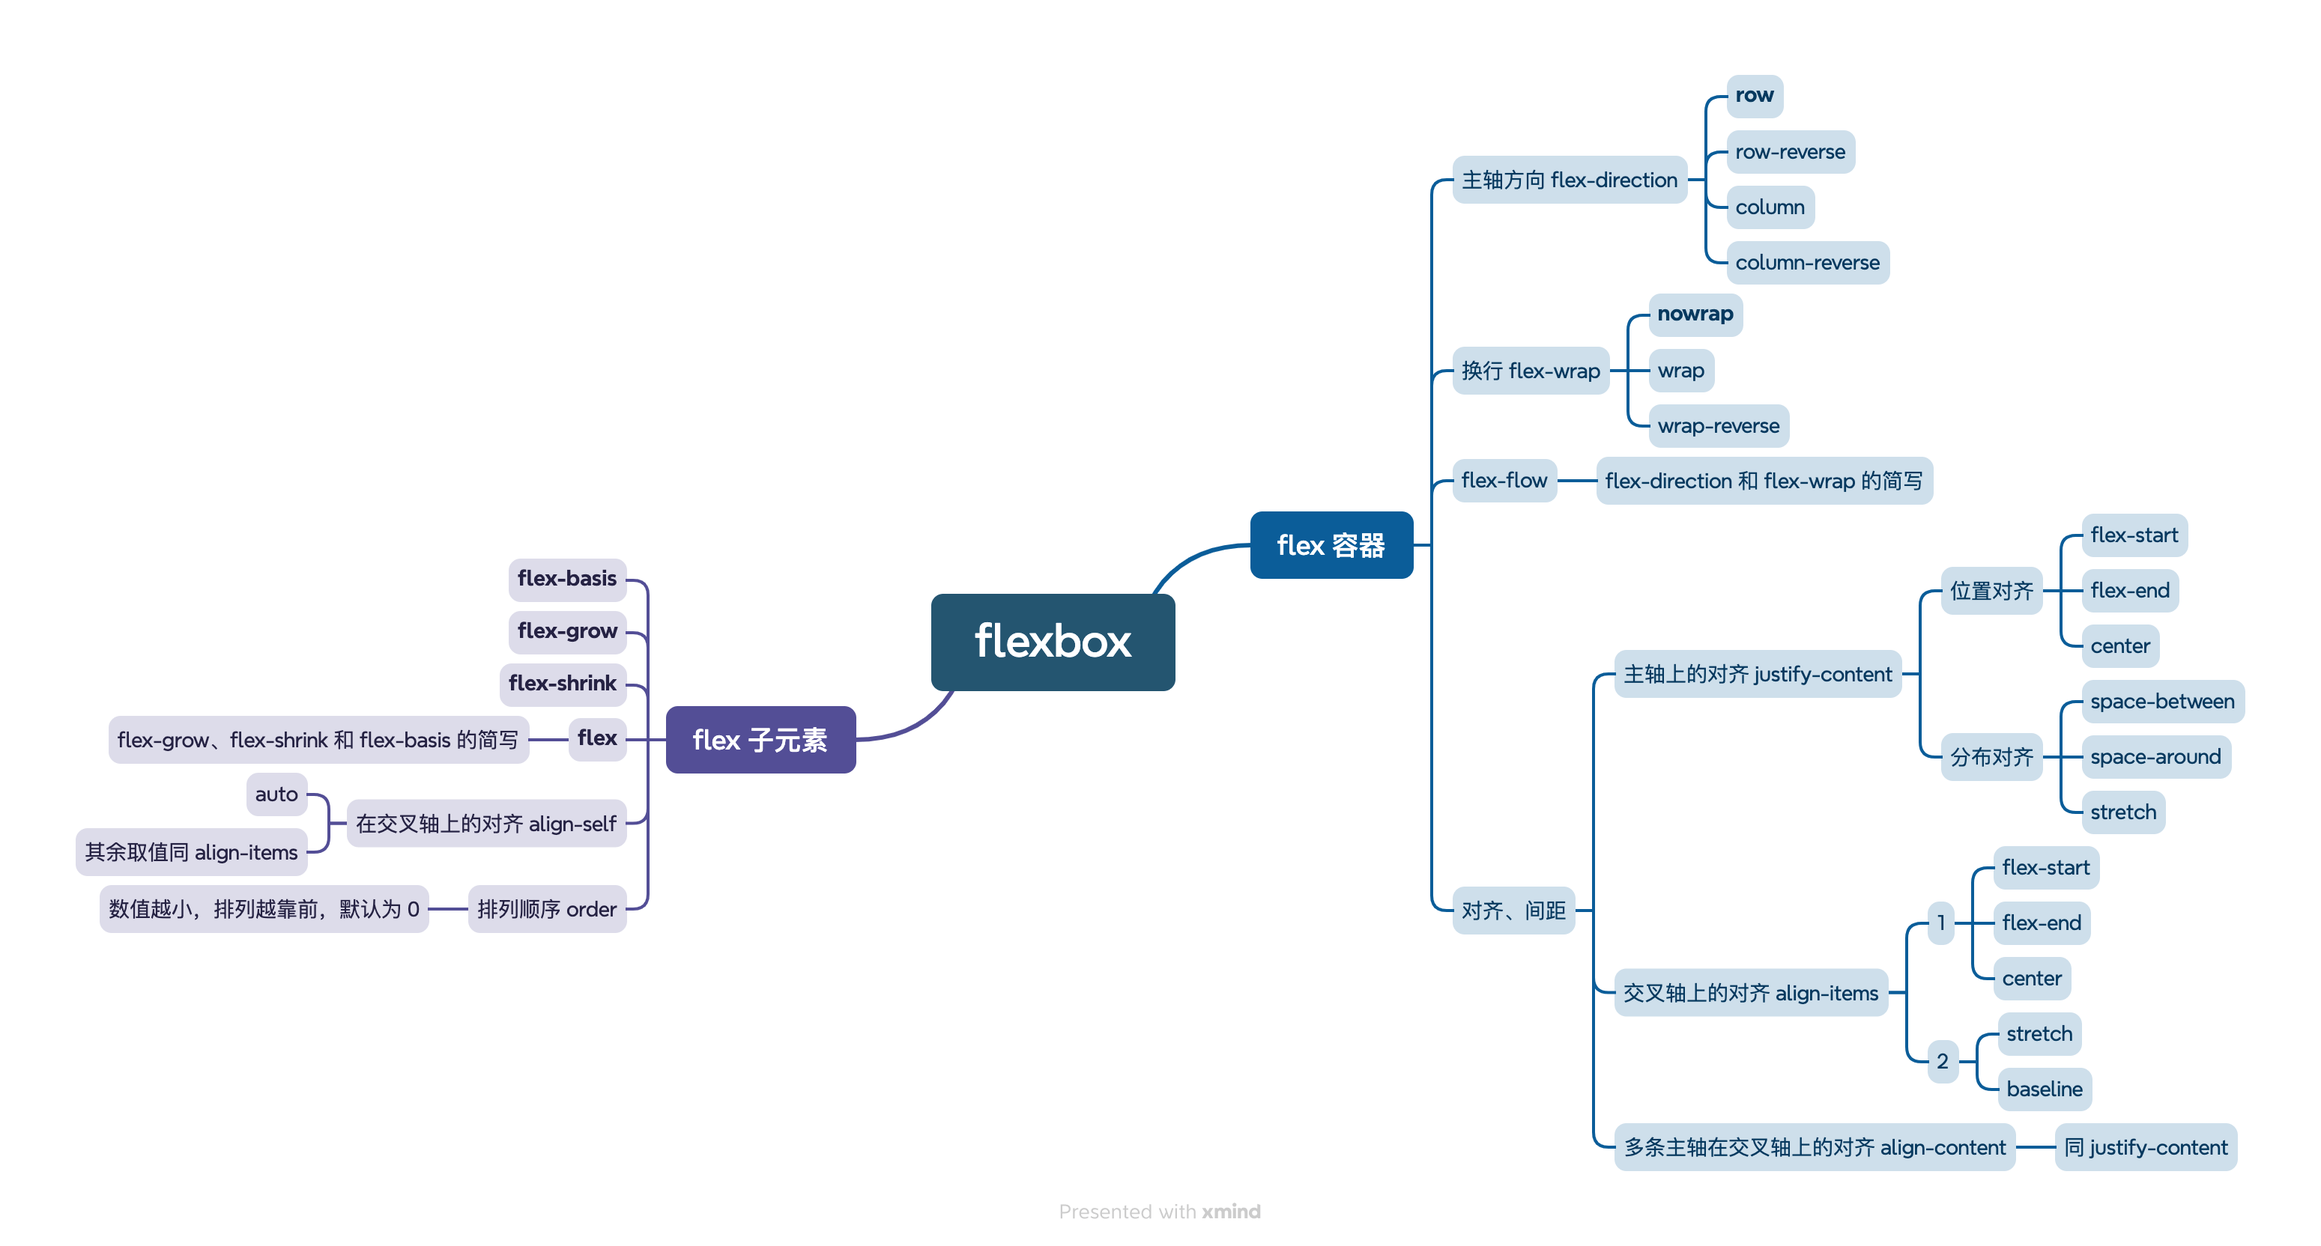
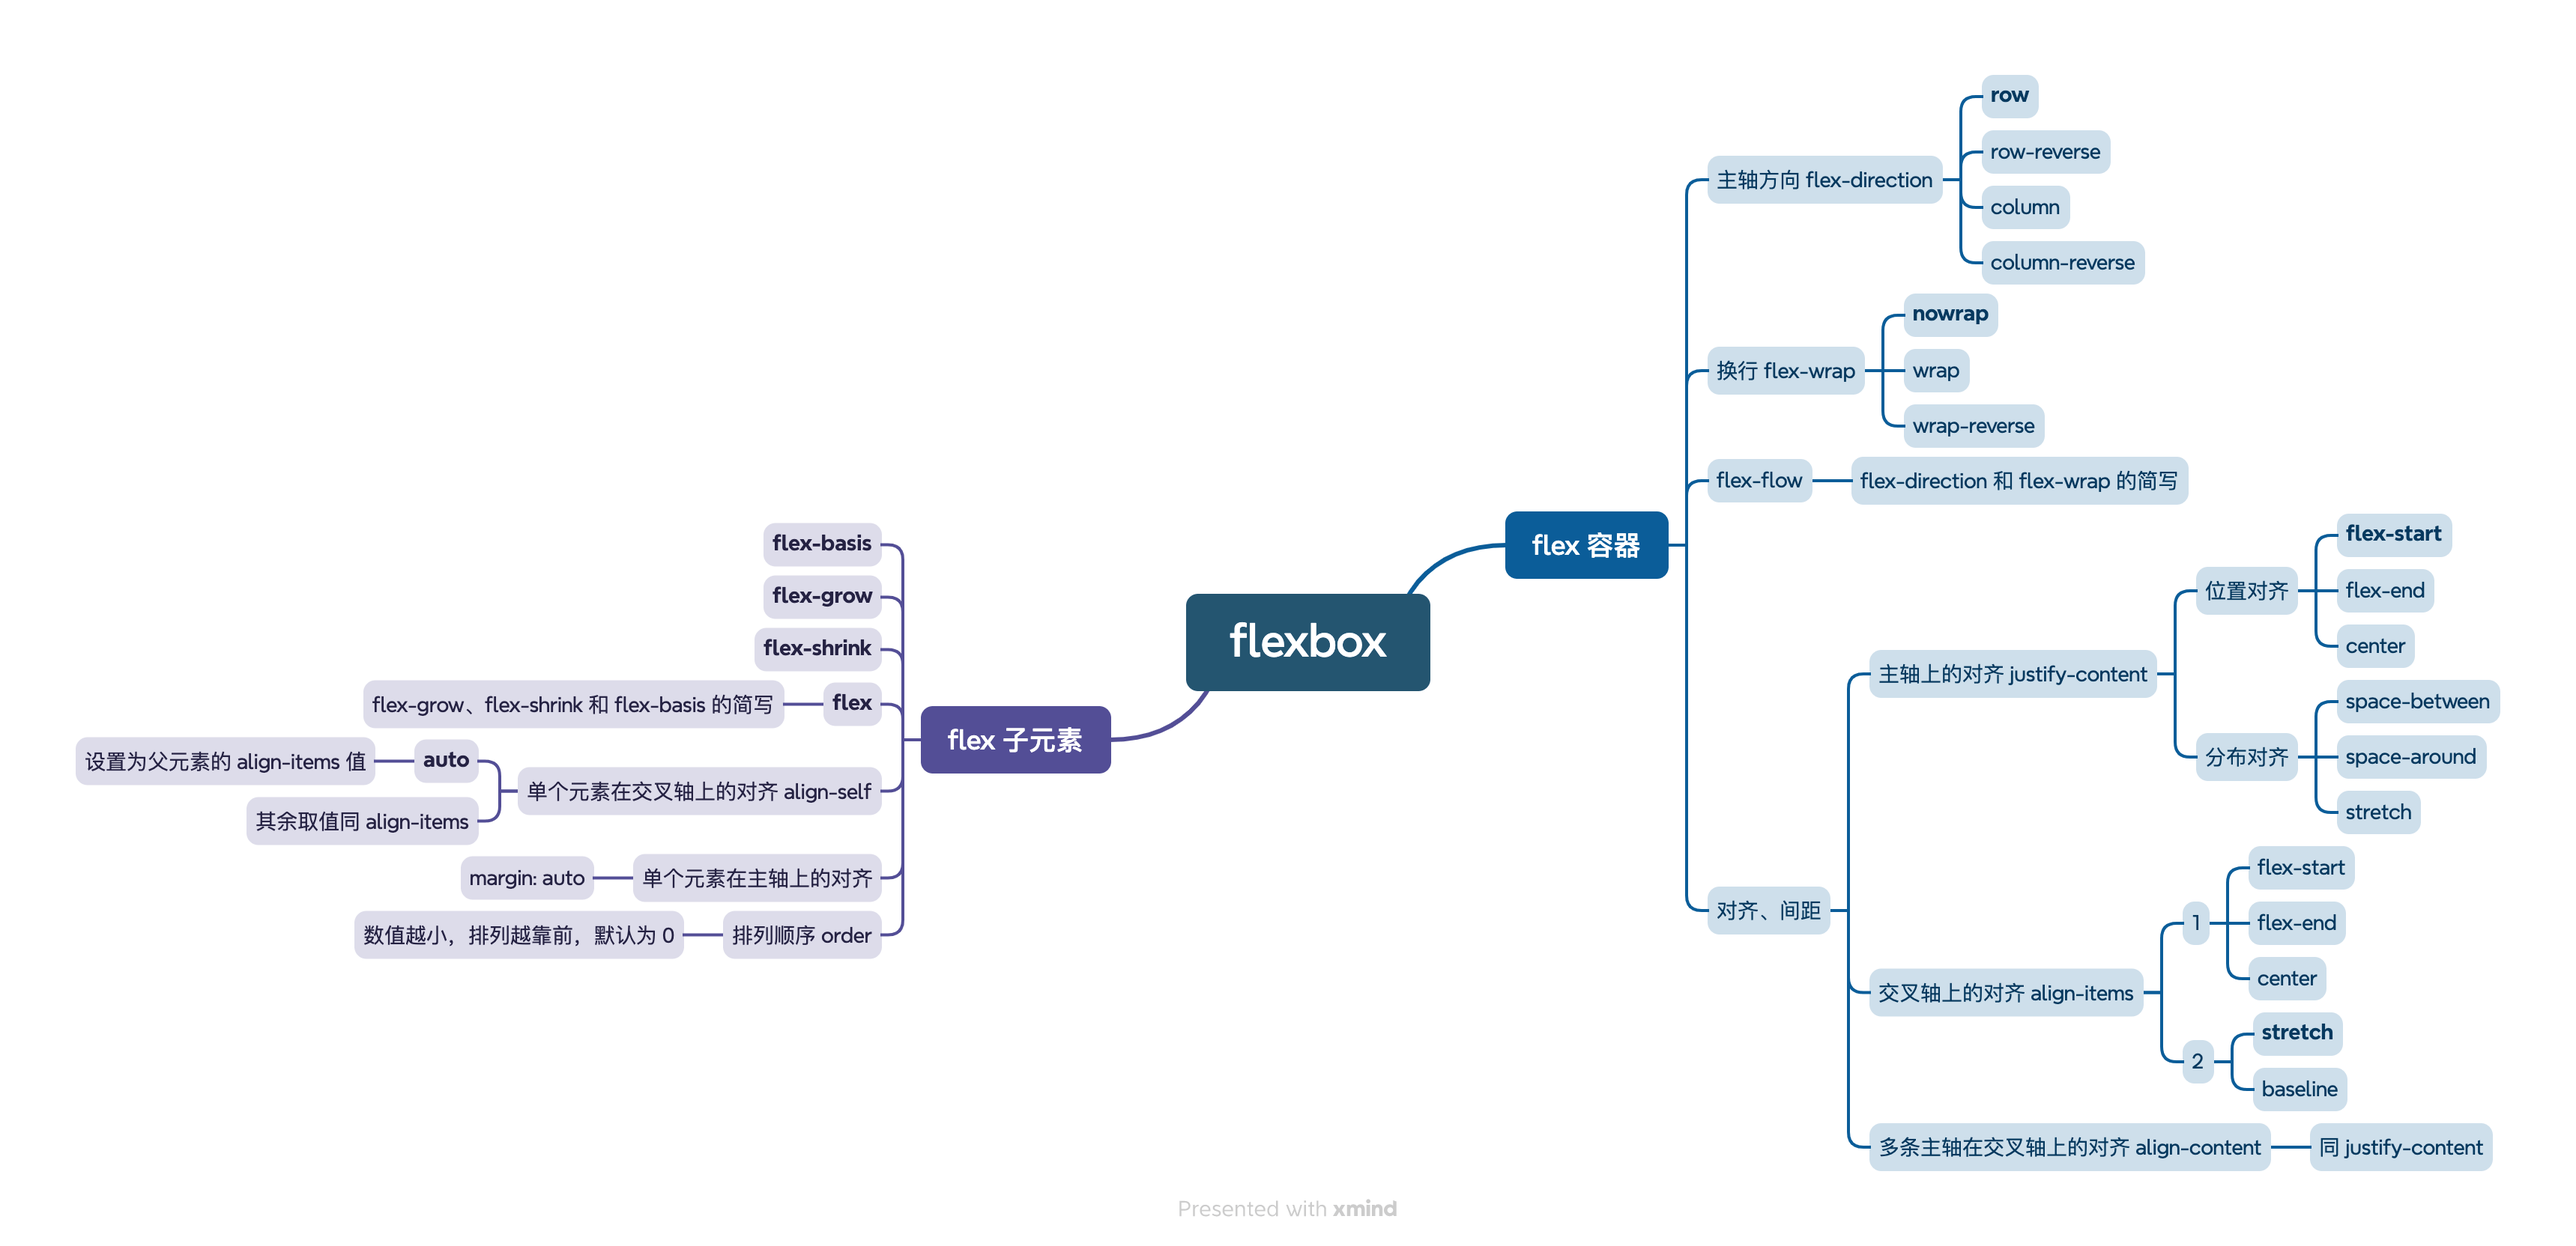
11

diff --git a/css/深入理解CSS/第5章 Flexbox.md b/css/深入理解CSS/第5章 Flexbox.md
@@ -54,7 +54,7 @@
 
 是否允许换行，如果允许换行，指定行的堆叠方向
 
-取值：`nowrap`、`wrap`、`wrap-reverse`
+取值：`nowrap`、`wrap`、`wrap-reverse`（换行、轴线从下到上）
 
 ![alt text](https://github.com/yaoshaohua/markdowndocs/blob/main/assets/css/5-4-1.png?raw=true)
 
@@ -110,6 +110,8 @@ flex 容器里除了元素所占的空间以外的富余空间
 
 值越大，收缩得越多
 
+如果 `flex-wrap` 设置了换行，则会忽略该属性
+
 ### `flex`
 
 `<flex-grow> <flex-shrink> <flex-basis>` 三个属性的简写
@@ -138,6 +140,10 @@ flex 容器里除了元素所占的空间以外的富余空间
 
 ### 主轴上的对齐 `justify-content`
 
+**当元素未填满容器时**，`justify-content` 控制子元素沿主轴方向的间距。也就是说，如果任意子元素的 `flex-grow` 不为 `0`，或者任意子元素**在主轴方向的外边距为`auto`**，`justify-content` 就失效了。
+
+取值：
+
 - 位置对齐：`flex-start`、`flex-end`、`center`
 
 - 分布对齐：`space-between`、`space-around`、`stretch`
@@ -146,7 +152,7 @@ flex 容器里除了元素所占的空间以外的富余空间
 
 ### 交叉轴上的对齐 `align-items`
 
-`flex-start`、`flex-end`、`center`、`stretch`、`baseline`
+`flex-start`、`flex-end`、`center`、**`stretch`**、`baseline`
 
 ### 多条主轴的 flex 子元素在交叉轴的对齐 `align-content`
 
@@ -156,7 +162,9 @@ flex 容器里除了元素所占的空间以外的富余空间
 
 ### 单个 flex 子元素在交叉轴上的对齐 `align-self`
 
-默认值 `auto`，其他取值同 `align-items`
+默认值 `auto`（设置为父元素的 align-items 值），其他取值同 `align-items`
+
+如果 flex 子元素在交叉轴方向上的外边距为 `auto`，则会忽略该属性
 
 ### 单个 flex 子元素在主轴上的对齐，`margin: auto`
 
